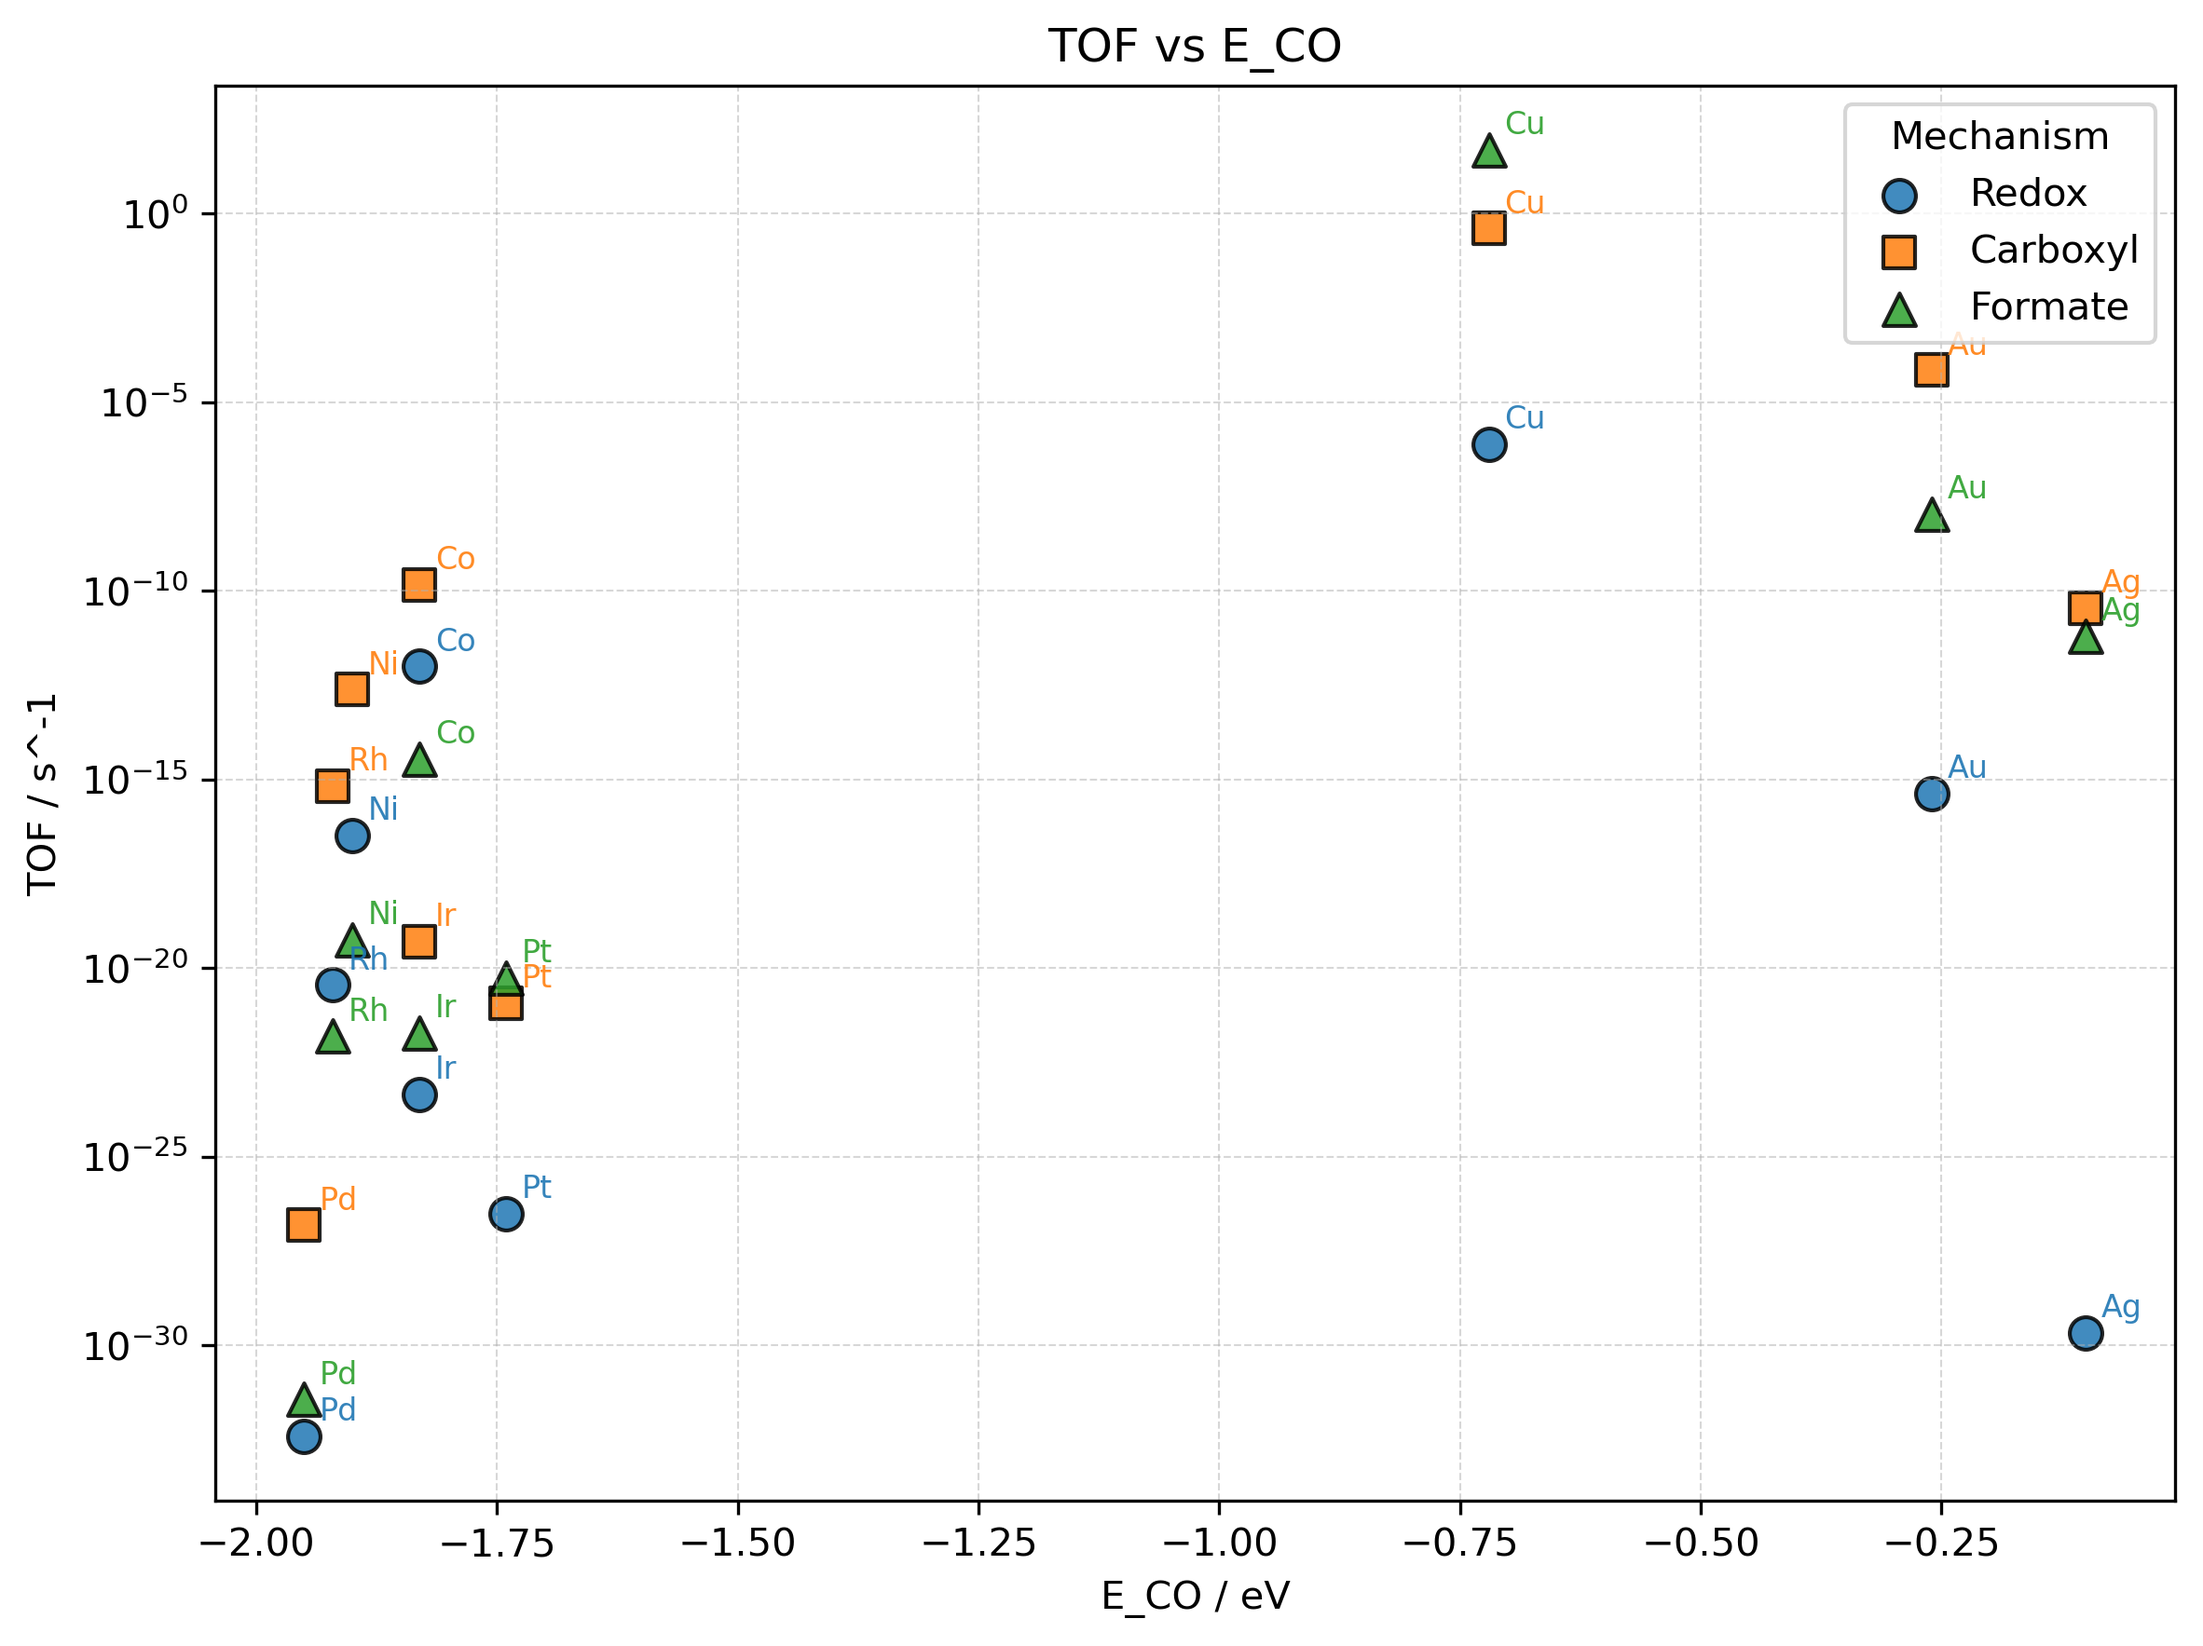
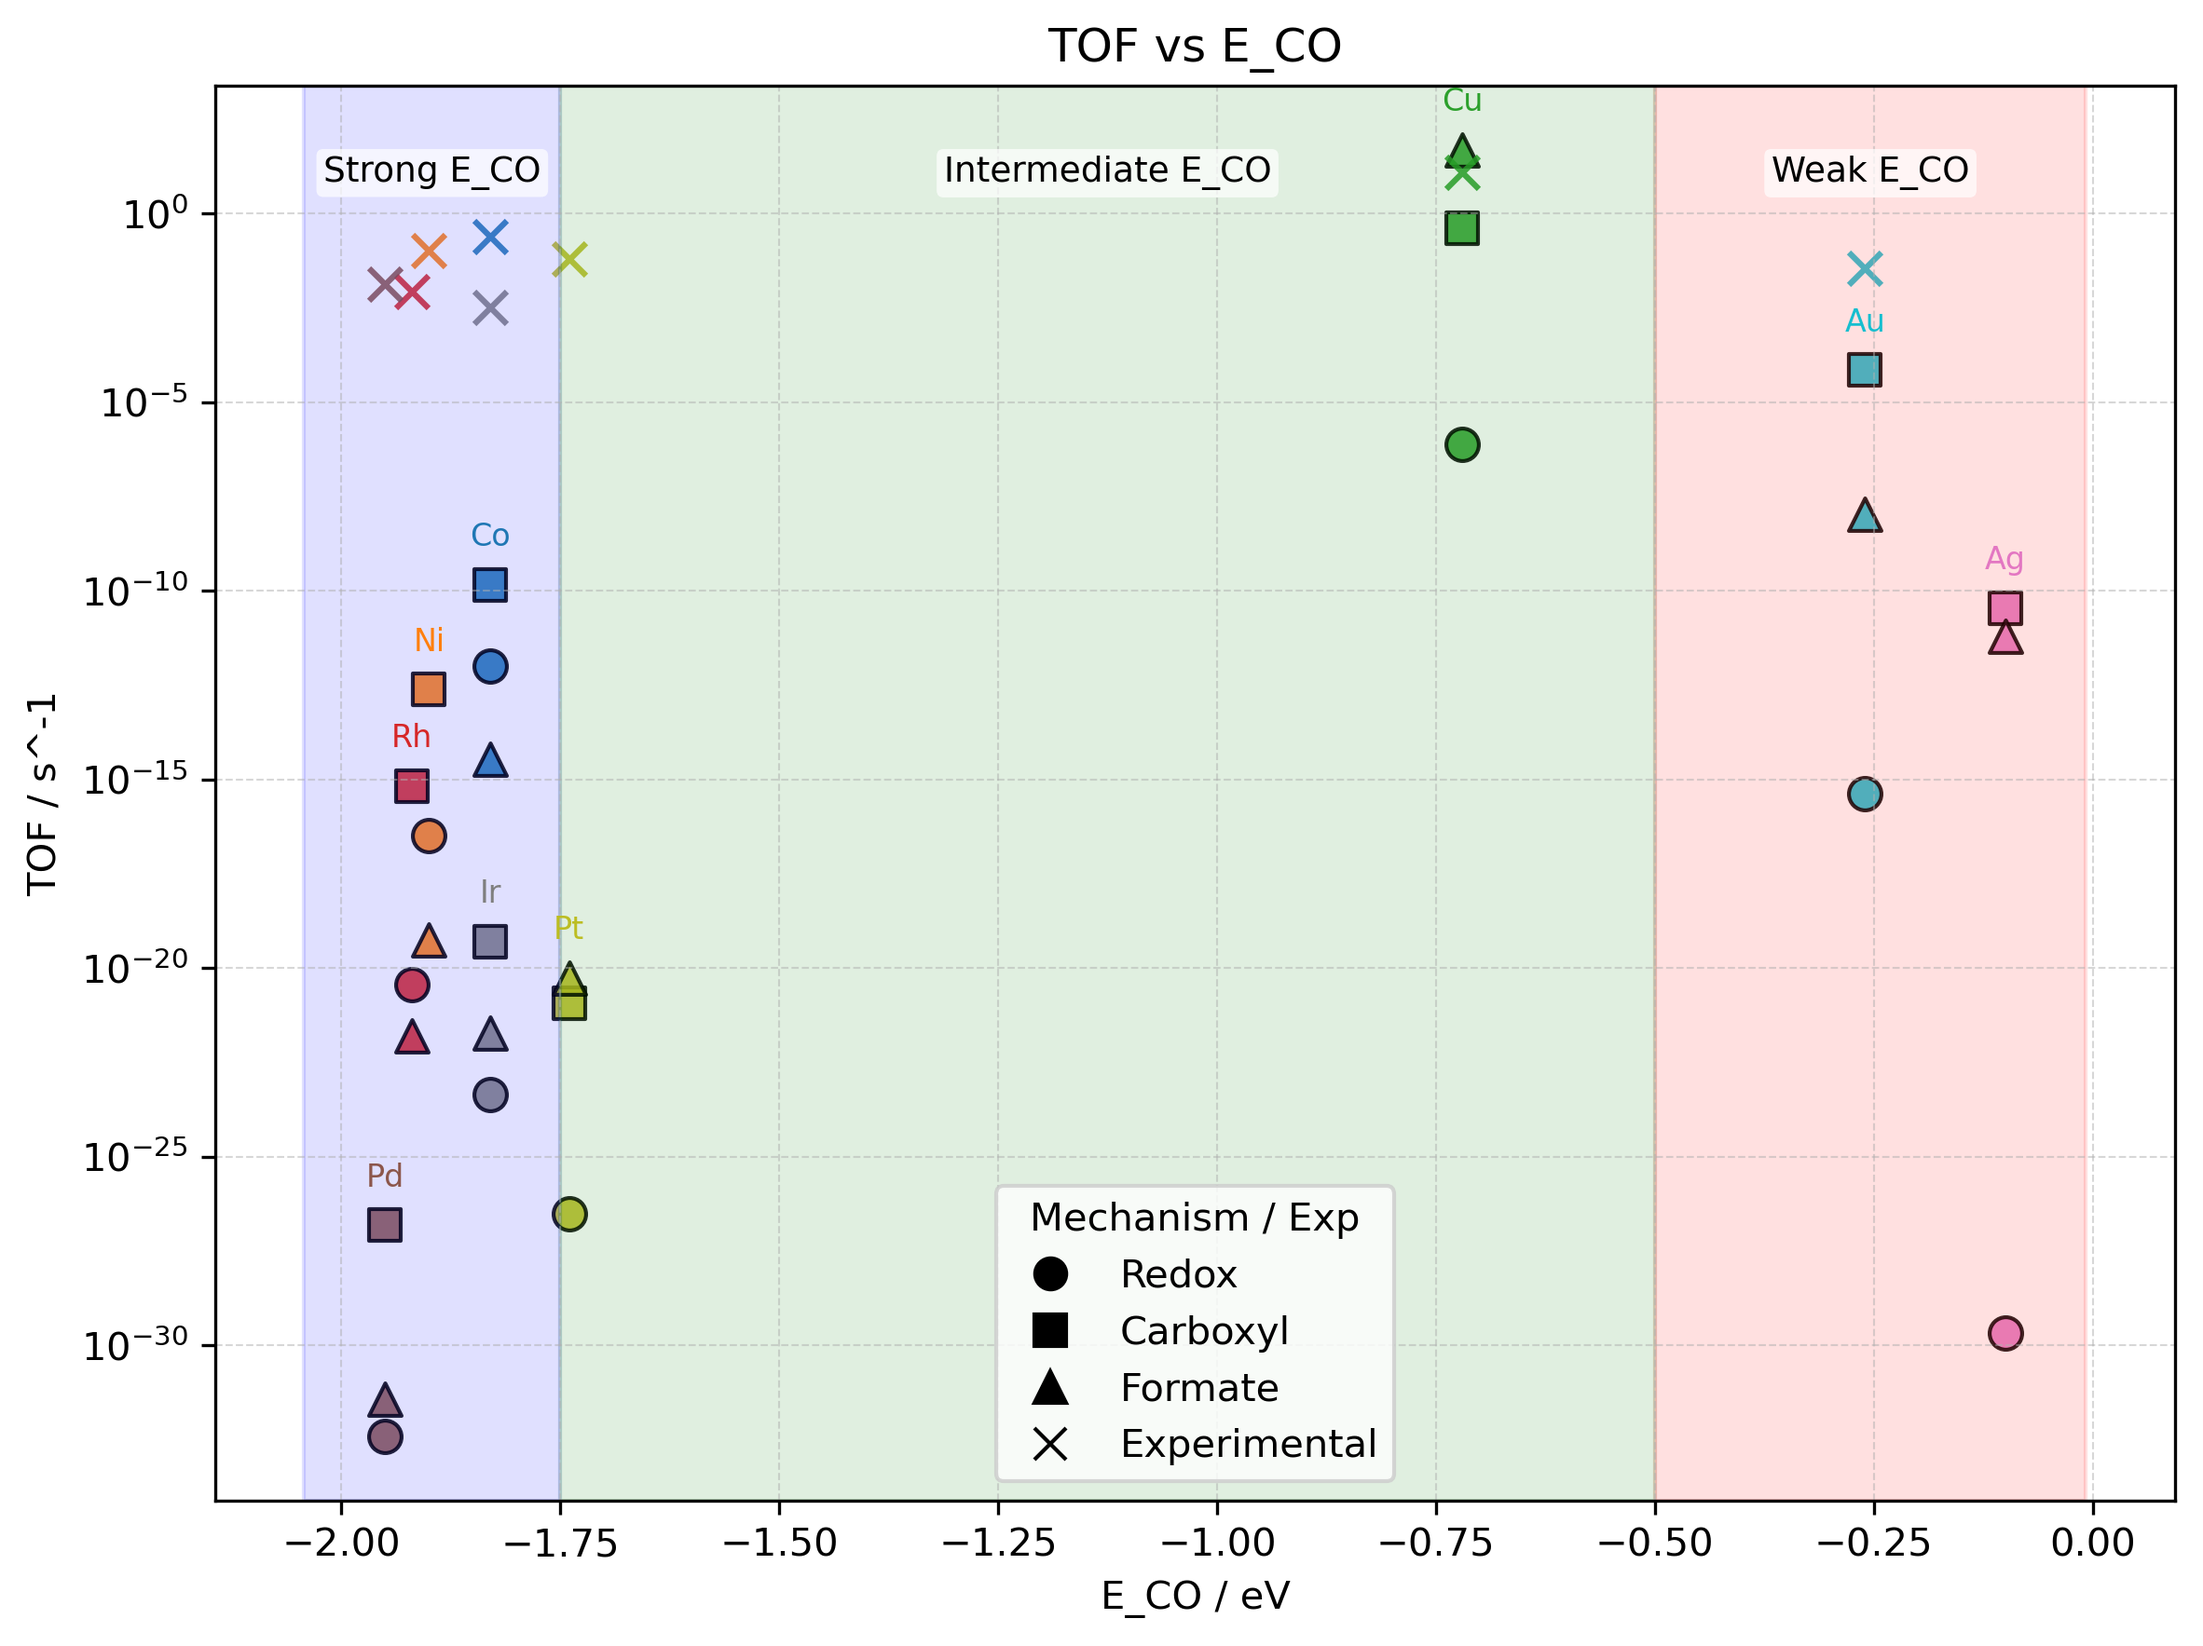
New plots that show regimes better

diff --git a/plot_tof_vs_descriptors.py b/plot_tof_vs_descriptors.py
@@ -1,11 +1,19 @@
 from pathlib import Path
 import csv
 import matplotlib.pyplot as plt
+import matplotlib.cm as cm
+import numpy as np
 
 ROOT_DIR = Path(__file__).resolve().parent
 RESULTS_DIR = ROOT_DIR / "results"
 RESULTS_DIR.mkdir(exist_ok=True)
 TOF_CSV = ROOT_DIR / "tof_results.csv"
+
+from model_data import metals, exp_tof, ads_energies
+
+markers = {"redox": "o", "carboxyl": "s", "formate": "^"}
+colors = cm.tab10(np.linspace(0, 1, len(metals)))
+metal_colors = dict(zip(metals, colors))
 
 
 def read_tof_results(csv_path):
@@ -24,41 +32,130 @@ def read_tof_results(csv_path):
         ]
 
 
-def plot_tof_vs_descriptor(results, descriptor, output_name):
+def plot_tof_vs_descriptor(results, descriptor, output_name, mechanism_filter=None):
     fig, ax = plt.subplots(figsize=(8, 6))
-    for mechanism, marker, color in [
-        ("redox", "o", "tab:blue"),
-        ("carboxyl", "s", "tab:orange"),
-        ("formate", "^", "tab:green"),
-    ]:
-        subset = [row for row in results if row["mechanism"] == mechanism]
-        ax.scatter(
-            [row[descriptor] for row in subset],
-            [row["tof"] for row in subset],
-            label=mechanism.capitalize(),
-            marker=marker,
-            color=color,
-            edgecolor="black",
-            s=70,
-            alpha=0.85,
-        )
-        for row in subset:
+    
+    # Plot calculated TOF
+    for metal in metals:
+        color = metal_colors[metal]
+        for mechanism in ["redox", "carboxyl", "formate"]:
+            if mechanism_filter and mechanism != mechanism_filter:
+                continue
+            row = next((r for r in results if r["metal"] == metal and r["mechanism"] == mechanism), None)
+            if row:
+                ax.scatter(
+                    row[descriptor],
+                    row["tof"],
+                    marker=markers[mechanism],
+                    color=color,
+                    edgecolor="black",
+                    s=70,
+                    alpha=0.85,
+                )
+    
+    # Plot experimental data
+    for metal in metals:
+        if metal in exp_tof:
+            key = "O" if descriptor == "E_O" else "CO"
+            ax.scatter(
+                ads_energies[metal][key],
+                exp_tof[metal],
+                marker='x',
+                color=metal_colors[metal],
+                s=70,
+                alpha=0.85,
+            )
+    
+    # Annotate metals above model data clusters
+    for metal in metals:
+        relevant_results = [r for r in results if r["metal"] == metal and (not mechanism_filter or r["mechanism"] == mechanism_filter)]
+        if relevant_results:
+            max_tof = max(r["tof"] for r in relevant_results)
+            x_pos = relevant_results[0][descriptor]
             ax.annotate(
-                row["metal"],
-                (row[descriptor], row["tof"]),
+                metal,
+                (x_pos, max_tof),
                 textcoords="offset points",
-                xytext=(4, 4),
+                xytext=(0, 10),
                 fontsize=8,
-                color=color,
-                alpha=0.9,
+                color=metal_colors[metal],
+                ha='center'
+            )
+    
+    # Highlight regimes for combined plots using the current axis window
+    if not mechanism_filter:
+        x_min, x_max = ax.get_xlim()
+        if descriptor == "E_CO":
+            regimes = [(x_min, -1.75, "Strong E_CO"), (-1.75, -0.5, "Intermediate E_CO"), (-0.5, x_max, "Weak E_CO")]
+        else:
+            regimes = [(x_min, -4.5, "Strong E_O"), (-4.5, -3.5, "Intermediate E_O"), (-3.5, x_max, "Weak E_O")]
+
+        for left, right, label in regimes:
+            ax.axvspan(left, right, alpha=0.12, color='blue' if "Strong" in label else 'green' if "Intermediate" in label else 'red')
+            x_text = left + (right - left) * 0.5
+            ax.text(
+                x_text,
+                0.95,
+                label,
+                transform=ax.get_xaxis_transform(),
+                fontsize=9,
+                color='black',
+                ha='center',
+                va='top',
+                bbox=dict(boxstyle='round,pad=0.2', facecolor='white', alpha=0.7, edgecolor='none')
             )
 
+    # Create legend without metals
+    handles = []
+    for mechanism in ["redox", "carboxyl", "formate"]:
+        if not mechanism_filter or mechanism == mechanism_filter:
+            handles.append(plt.Line2D([0], [0], marker=markers[mechanism], color='black', linestyle='None', markersize=8, label=mechanism.capitalize()))
+    handles.append(plt.Line2D([0], [0], marker='x', color='black', linestyle='None', markersize=8, label='Experimental'))
+    
+    ax.legend(handles=handles, title="Mechanism / Exp")
+    
     ax.set_xlabel("E_O / eV" if descriptor == "E_O" else "E_CO / eV")
     ax.set_ylabel("TOF / s^-1")
     ax.set_yscale("log")
-    ax.set_title("TOF vs " + ("E_O" if descriptor == "E_O" else "E_CO"))
+    title = f"TOF vs {descriptor}"
+    if mechanism_filter:
+        title += f" ({mechanism_filter.capitalize()})"
+    ax.set_title(title)
     ax.grid(True, which="both", linestyle="--", linewidth=0.5, alpha=0.5)
-    ax.legend(title="Mechanism")
+    fig.tight_layout()
+    fig.savefig(RESULTS_DIR / output_name, dpi=300, bbox_inches="tight")
+    return fig
+
+
+def plot_exp_vs_descriptor(descriptor, output_name):
+    fig, ax = plt.subplots(figsize=(8, 6))
+    
+    for metal in metals:
+        if metal in exp_tof:
+            key = "O" if descriptor == "E_O" else "CO"
+            ax.scatter(
+                ads_energies[metal][key],
+                exp_tof[metal],
+                marker='x',
+                color=metal_colors[metal],
+                s=70,
+                alpha=0.85,
+            )
+            ax.annotate(
+                metal,
+                (ads_energies[metal][key], exp_tof[metal]),
+                textcoords="offset points",
+                xytext=(0, 10),
+                fontsize=8,
+                color=metal_colors[metal],
+                ha='center'
+            )
+    
+    ax.set_xlabel("E_O / eV" if descriptor == "E_O" else "E_CO / eV")
+    ax.set_ylabel("TOF / s^-1")
+    ax.set_yscale("log")
+    ax.set_title(f"Experimental TOF vs {descriptor}")
+    ax.grid(True, which="both", linestyle="--", linewidth=0.5, alpha=0.5)
     fig.tight_layout()
     fig.savefig(RESULTS_DIR / output_name, dpi=300, bbox_inches="tight")
     return fig
@@ -66,8 +163,16 @@ def plot_tof_vs_descriptor(results, descriptor, output_name):
 
 def main():
     results = read_tof_results(TOF_CSV)
+    # Combined plots
     plot_tof_vs_descriptor(results, "E_O", "tof_vs_E_O.png")
     plot_tof_vs_descriptor(results, "E_CO", "tof_vs_E_CO.png")
+    # Individual mechanism plots
+    for mechanism in ["redox", "carboxyl", "formate"]:
+        plot_tof_vs_descriptor(results, "E_O", f"tof_vs_E_O_{mechanism}.png", mechanism_filter=mechanism)
+        plot_tof_vs_descriptor(results, "E_CO", f"tof_vs_E_CO_{mechanism}.png", mechanism_filter=mechanism)
+    # Experimental plots
+    plot_exp_vs_descriptor("E_O", "exp_tof_vs_E_O.png")
+    plot_exp_vs_descriptor("E_CO", "exp_tof_vs_E_CO.png")
     plt.show()
 
 

diff --git a/volcano_plot.py b/volcano_plot.py
@@ -267,7 +267,7 @@ mechanisms = {
 def build_surface_grid(surface_fn):
     """Evaluate one mechanism over a regular E_CO/E_O descriptor grid."""
     E_CO_vals = np.linspace(-2.4, 0.2, 100)
-    E_O_vals = np.linspace(-6.0, -2.0, 100)
+    E_O_vals = np.linspace(-7.0, -2.0, 100)
 
     E_CO_mesh, E_O_mesh = np.meshgrid(E_CO_vals, E_O_vals)
     Z = np.full_like(E_CO_mesh, np.nan, dtype=float)
